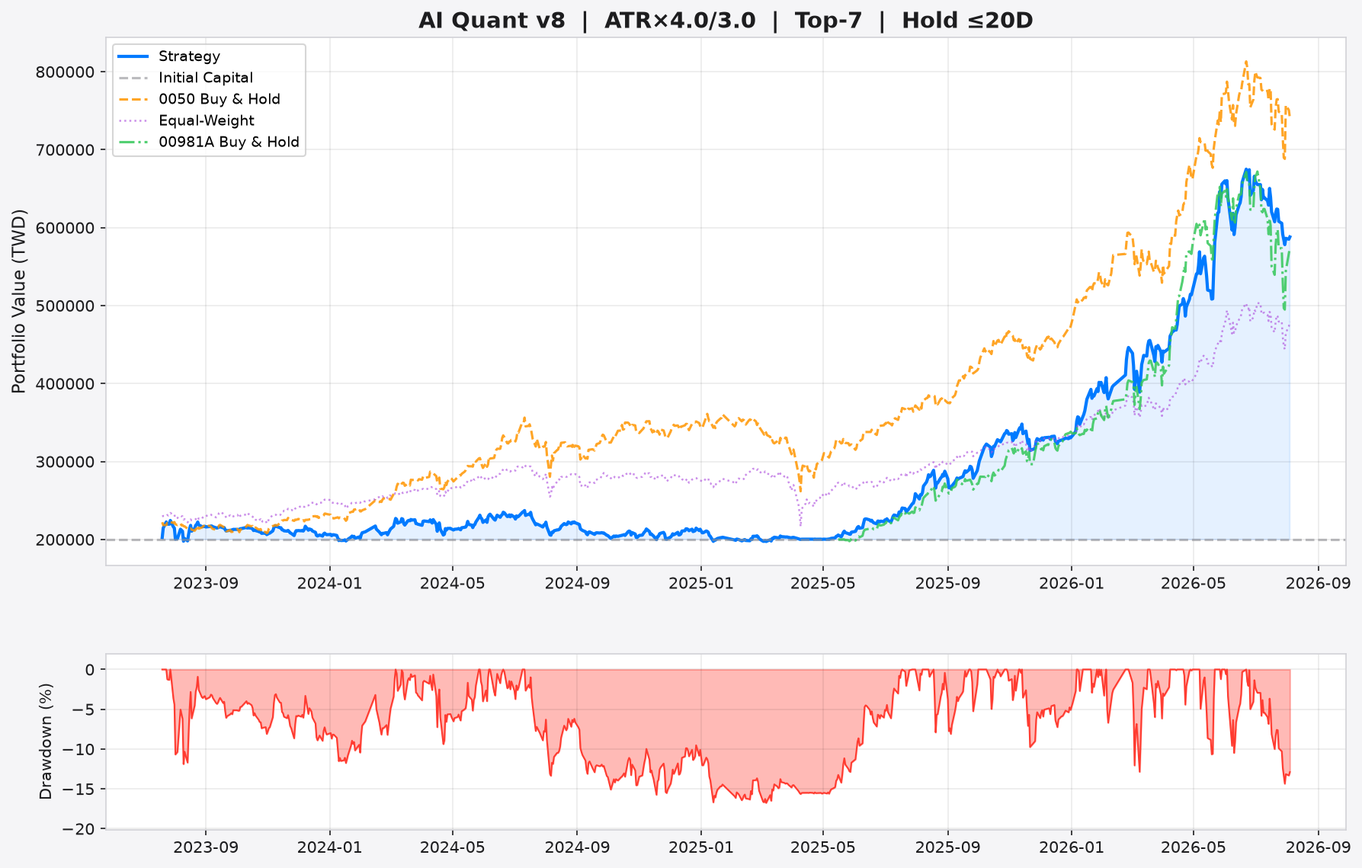
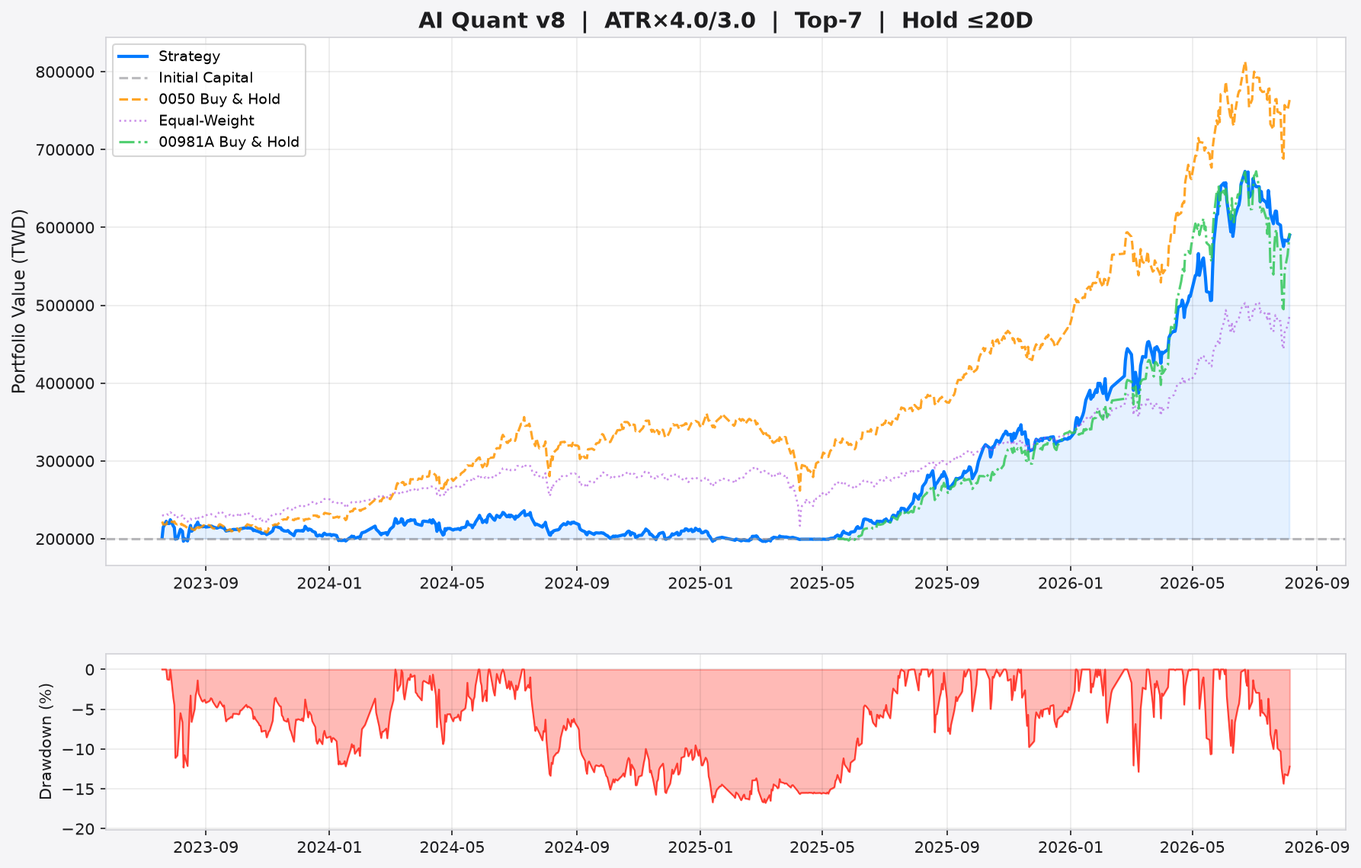
📊 AI Report v8.5 + Paper Trading (2026-08-05)

diff --git a/stock_report.html b/stock_report.html
@@ -3,7 +3,7 @@
 <head>
     <meta charset="utf-8">
     <meta name="viewport" content="width=device-width, initial-scale=1.0">
-    <title>AI 台股量化交易 v8.5 — 2026-08-04</title>
+    <title>AI 台股量化交易 v8.5 — 2026-08-05</title>
     <meta name="description" content="AI 驅動的台股量化交易系統 v8.5，完整風險報告、Benchmark 對比、OCO 智慧掛單建議">
     <script>
         (function() {
@@ -292,7 +292,7 @@
 
     <h1>🎯 AI 台股量化交易 v8.5</h1>
     <p class="subtitle">
-        Event-Driven System &nbsp;|&nbsp; 報表日期: 2026-08-04 &nbsp;|&nbsp;
+        Event-Driven System &nbsp;|&nbsp; 報表日期: 2026-08-05 &nbsp;|&nbsp;
         <span class="config-badge">🛡 ATR×4.0/3.0</span>
         <span class="config-badge">🎯 Top-7</span>
         <span class="config-badge">⏱ 最長 20 天</span>
@@ -303,11 +303,11 @@
     <div class="stats">
         <div class="stat-card">
             <div class="label">策略總報酬率</div>
-            <div class="value" style="color:#00ff00;">+194.0%</div>
+            <div class="value" style="color:#00ff00;">+195.0%</div>
         </div>
         <div class="stat-card">
             <div class="label">年化報酬率</div>
-            <div class="value" style="color:#00ff00;">+44.5%</div>
+            <div class="value" style="color:#00ff00;">+44.6%</div>
         </div>
         <div class="stat-card">
             <div class="label">年化波動率</div>
@@ -319,7 +319,7 @@
         </div>
         <div class="stat-card risk">
             <div class="label">Sortino Ratio</div>
-            <div class="value">2.22</div>
+            <div class="value">2.21</div>
         </div>
         <div class="stat-card risk">
             <div class="label">最大回撤</div>
@@ -331,7 +331,7 @@
         </div>
         <div class="stat-card">
             <div class="label">完成交易數</div>
-            <div class="value">565</div>
+            <div class="value">567</div>
         </div>
         <div class="stat-card">
             <div class="label">勝率</div>
@@ -343,7 +343,7 @@
         </div>
         <div class="stat-card">
             <div class="label">平均報酬/筆</div>
-            <div class="value">+2.50%</div>
+            <div class="value">+2.51%</div>
         </div>
         <div class="stat-card">
             <div class="label">平均持有天數</div>
@@ -370,23 +370,23 @@
             </tr>
         </thead>
         <tbody>
-<tr><td>3231</td><td>4.00</td><td>195.0</td><td><span style="color:#00ff00; font-weight:bold;">🟢 建議買進 #1</span></td><td><b>停利:</b> <span style="color:#00ff00">234.0</span> (+20.0%) <br><b>停損:</b> <span style="color:#ff4444">165.8</span> (-15.0%) <br><b>最晚出場:</b> 2026-09-01</td><td><span style="font-size:0.72rem; color:#888;">歷史 <b>10</b>筆 | 勝率 <b style="color:#ff4444">30%</b> | 均報酬 <b style="color:#ff4444">-1.6%</b></span></td><td><span style="font-size:0.78rem;">🟢 大買<br><span style="color:#00ff00; font-weight:bold;">+7.0%</span></span></td><td><span style="font-size:0.78rem;">⚪ 中性</span></td></tr>
-<tr><td>6669</td><td>3.93</td><td>6205.0</td><td><span style="color:#00ff00; font-weight:bold;">🟢 建議買進 #2</span></td><td><b>停利:</b> <span style="color:#00ff00">7591.0</span> (+22.3%) <br><b>停損:</b> <span style="color:#ff4444">5165.5</span> (-16.8%) <br><b>最晚出場:</b> 2026-09-01</td><td><span style="font-size:0.72rem; color:#888;">歷史 <b>11</b>筆 | 勝率 <b style="color:#ff4444">36%</b> | 均報酬 <b style="color:#ff4444">-2.0%</b></span></td><td><span style="font-size:0.78rem;">🟡 小買<br><span style="color:#ffab00; font-weight:bold;">+1.6%</span></span></td><td><span style="font-size:0.78rem;">⚪ 中性</span></td></tr>
-<tr><td>2395</td><td>3.75</td><td>576.0</td><td><span style="color:#00ff00; font-weight:bold;">🟢 建議買進 #3</span></td><td><b>停利:</b> <span style="color:#00ff00">704.9</span> (+22.4%) <br><b>停損:</b> <span style="color:#ff4444">479.3</span> (-16.8%) <br><b>最晚出場:</b> 2026-09-01</td><td><span style="font-size:0.72rem; color:#555;">歷史資料不足</span></td><td><span style="font-size:0.78rem;">⚪ 無資料<br><span style="color:#888; font-weight:bold;">+0.0%</span></span></td><td><span style="font-size:0.78rem;">⚪ 中性</span></td></tr>
-<tr><td>2301</td><td>3.72</td><td>252.0</td><td><span style="color:#00ff00; font-weight:bold;">🟢 建議買進 #4</span></td><td><b>停利:</b> <span style="color:#00ff00">312.4</span> (+24.0%) <br><b>停損:</b> <span style="color:#ff4444">206.7</span> (-18.0%) <br><b>最晚出場:</b> 2026-09-01</td><td><span style="font-size:0.72rem; color:#888;">歷史 <b>2</b>筆 | 勝率 <b style="color:#00ff00">100%</b> | 均報酬 <b style="color:#00ff00">+16.0%</b></span></td><td><span style="font-size:0.78rem;">⚪ 無資料<br><span style="color:#888; font-weight:bold;">+0.0%</span></span></td><td><span style="font-size:0.78rem;">⚪ 中性</span></td></tr>
-<tr><td>2357</td><td>3.68</td><td>806.0</td><td><span style="color:#00ff00; font-weight:bold;">🟢 建議買進 #5</span></td><td><b>停利:</b> <span style="color:#00ff00">924.2</span> (+14.7%) <br><b>停損:</b> <span style="color:#ff4444">717.4</span> (-11.0%) <br><b>最晚出場:</b> 2026-09-01</td><td><span style="font-size:0.72rem; color:#888;">歷史 <b>4</b>筆 | 勝率 <b style="color:#00ff00">75%</b> | 均報酬 <b style="color:#00ff00">+1.7%</b></span></td><td><span style="font-size:0.78rem;">🟢 大買<br><span style="color:#00ff00; font-weight:bold;">+3.9%</span></span></td><td><span style="font-size:0.78rem;">⚪ 中性</span></td></tr>
-<tr><td>6505</td><td>3.63</td><td>68.2</td><td><span style="color:#00ff00; font-weight:bold;">🟢 建議買進 #6</span></td><td><b>停利:</b> <span style="color:#00ff00">92.3</span> (+35.3%) <br><b>停損:</b> <span style="color:#ff4444">50.2</span> (-26.5%) <br><b>最晚出場:</b> 2026-09-01</td><td><span style="font-size:0.72rem; color:#888;">歷史 <b>4</b>筆 | 勝率 <b style="color:#ff4444">25%</b> | 均報酬 <b style="color:#ff4444">-8.6%</b></span></td><td><span style="font-size:0.78rem;">⚪ 無資料<br><span style="color:#888; font-weight:bold;">+0.0%</span></span></td><td><span style="font-size:0.78rem;">⚪ 中性</span></td></tr>
-<tr><td>2884</td><td>3.53</td><td>38.0</td><td><span style="color:#00ff00; font-weight:bold;">🟢 建議買進 #7</span></td><td><b>停利:</b> <span style="color:#00ff00">41.5</span> (+9.1%) <br><b>停損:</b> <span style="color:#ff4444">35.4</span> (-6.8%) <br><b>最晚出場:</b> 2026-09-01</td><td><span style="font-size:0.72rem; color:#888;">歷史 <b>4</b>筆 | 勝率 <b style="color:#00ff00">75%</b> | 均報酬 <b style="color:#00ff00">+0.4%</b></span></td><td><span style="font-size:0.78rem;">🟡 小買<br><span style="color:#ffab00; font-weight:bold;">+1.6%</span></span></td><td><span style="font-size:0.78rem;">⚪ 中性</span></td></tr>
-<tr style="opacity:0.6"><td>2618</td><td>3.32</td><td>43.8</td><td><span style="color:#ffab00">🟡 候選 (超出 Top-K)</span></td><td>-</td><td><span style="font-size:0.72rem; color:#888;">勝率 <b style="color:#ff4444">33%</b></span></td><td><span style="font-size:0.72rem;">🟢 大買<br><span style="color:#00ff00">+7.7%</span></span></td><td><span style="font-size:0.72rem;">⚪</span></td></tr>
-<tr style="opacity:0.6"><td>2377</td><td>3.28</td><td>149.5</td><td><span style="color:#ffab00">🟡 候選 (超出 Top-K)</span></td><td>-</td><td><span style="font-size:0.72rem; color:#888;">勝率 <b style="color:#00ff00">50%</b></span></td><td><span style="font-size:0.72rem;">🟢 大買<br><span style="color:#00ff00">+3.8%</span></span></td><td><span style="font-size:0.72rem;">⚪</span></td></tr>
-<tr style="opacity:0.6"><td>2886</td><td>3.25</td><td>50.7</td><td><span style="color:#ffab00">🟡 候選 (超出 Top-K)</span></td><td>-</td><td><span style="font-size:0.72rem; color:#888;">勝率 <b style="color:#00ff00">50%</b></span></td><td><span style="font-size:0.72rem;">⚪ 無資料<br><span style="color:#888">+0.0%</span></span></td><td><span style="font-size:0.72rem;">⚪</span></td></tr>
-<tr style="opacity:0.6"><td>2603</td><td>3.20</td><td>206.0</td><td><span style="color:#ffab00">🟡 候選 (超出 Top-K)</span></td><td>-</td><td><span style="font-size:0.72rem; color:#888;">勝率 <b style="color:#ff4444">30%</b></span></td><td><span style="font-size:0.72rem;">🟢 大買<br><span style="color:#00ff00">+2.2%</span></span></td><td><span style="font-size:0.72rem;">⚪</span></td></tr>
-<tr style="opacity:0.6"><td>2887</td><td>3.18</td><td>35.5</td><td><span style="color:#ffab00">🟡 候選 (超出 Top-K)</span></td><td>-</td><td><span style="font-size:0.72rem; color:#555;">-</span></td><td><span style="font-size:0.72rem;">⚪ 無資料<br><span style="color:#888">+0.0%</span></span></td><td><span style="font-size:0.72rem;">⚪</span></td></tr>
-<tr style="opacity:0.4"><td>2317</td><td>2.62</td><td>250.0</td><td><span style="color:#aaaaaa">⚪ 觀望 (低於 MA)</span></td><td>-</td><td>-</td><td style="color:#555">-</td><td style="color:#555">-</td></tr>
-<tr style="opacity:0.4"><td>6285</td><td>2.17</td><td>252.5</td><td><span style="color:#aaaaaa">⚪ 觀望 (低於 MA)</span></td><td>-</td><td>-</td><td style="color:#555">-</td><td style="color:#555">-</td></tr>
-<tr style="opacity:0.4"><td>3533</td><td>2.17</td><td>2010.0</td><td><span style="color:#aaaaaa">⚪ 觀望 (低於 MA)</span></td><td>-</td><td>-</td><td style="color:#555">-</td><td style="color:#555">-</td></tr>
-<tr style="opacity:0.4"><td>2412</td><td>1.93</td><td>136.5</td><td><span style="color:#aaaaaa">⚪ 觀望 (評分不足)</span></td><td>-</td><td>-</td><td style="color:#555">-</td><td style="color:#555">-</td></tr>
-<tr style="opacity:0.4"><td>1216</td><td>1.85</td><td>73.9</td><td><span style="color:#aaaaaa">⚪ 觀望 (評分不足)</span></td><td>-</td><td>-</td><td style="color:#555">-</td><td style="color:#555">-</td></tr>
+<tr><td>3231</td><td>3.97</td><td>193.0</td><td><span style="color:#00ff00; font-weight:bold;">🟢 建議買進 #1</span></td><td><b>停利:</b> <span style="color:#00ff00">233.1</span> (+20.8%) <br><b>停損:</b> <span style="color:#ff4444">162.9</span> (-15.6%) <br><b>最晚出場:</b> 2026-09-02</td><td><span style="font-size:0.72rem; color:#888;">歷史 <b>11</b>筆 | 勝率 <b style="color:#ff4444">36%</b> | 均報酬 <b style="color:#00ff00">+0.1%</b></span></td><td><span style="font-size:0.78rem;">🟢 大買<br><span style="color:#00ff00; font-weight:bold;">+7.0%</span></span></td><td><span style="font-size:0.78rem;">⚪ 中性</span></td></tr>
+<tr><td>6669</td><td>3.88</td><td>6175.0</td><td><span style="color:#00ff00; font-weight:bold;">🟢 建議買進 #2</span></td><td><b>停利:</b> <span style="color:#00ff00">7578.0</span> (+22.7%) <br><b>停損:</b> <span style="color:#ff4444">5122.8</span> (-17.0%) <br><b>最晚出場:</b> 2026-09-02</td><td><span style="font-size:0.72rem; color:#888;">歷史 <b>11</b>筆 | 勝率 <b style="color:#ff4444">36%</b> | 均報酬 <b style="color:#ff4444">-2.0%</b></span></td><td><span style="font-size:0.78rem;">🟡 小買<br><span style="color:#ffab00; font-weight:bold;">+1.6%</span></span></td><td><span style="font-size:0.78rem;">⚪ 中性</span></td></tr>
+<tr><td>2395</td><td>3.83</td><td>633.0</td><td><span style="color:#00ff00; font-weight:bold;">🟢 建議買進 #3</span></td><td><b>停利:</b> <span style="color:#00ff00">763.7</span> (+20.6%) <br><b>停損:</b> <span style="color:#ff4444">535.0</span> (-15.5%) <br><b>最晚出場:</b> 2026-09-02</td><td><span style="font-size:0.72rem; color:#555;">歷史資料不足</span></td><td><span style="font-size:0.78rem;">⚪ 無資料<br><span style="color:#888; font-weight:bold;">+0.0%</span></span></td><td><span style="font-size:0.78rem;">⚪ 中性</span></td></tr>
+<tr><td>2357</td><td>3.78</td><td>838.0</td><td><span style="color:#00ff00; font-weight:bold;">🟢 建議買進 #4</span></td><td><b>停利:</b> <span style="color:#00ff00">962.0</span> (+14.8%) <br><b>停損:</b> <span style="color:#ff4444">745.0</span> (-11.1%) <br><b>最晚出場:</b> 2026-09-02</td><td><span style="font-size:0.72rem; color:#888;">歷史 <b>4</b>筆 | 勝率 <b style="color:#00ff00">75%</b> | 均報酬 <b style="color:#00ff00">+1.7%</b></span></td><td><span style="font-size:0.78rem;">🟢 大買<br><span style="color:#00ff00; font-weight:bold;">+3.9%</span></span></td><td><span style="font-size:0.78rem;">⚪ 中性</span></td></tr>
+<tr><td>2301</td><td>3.60</td><td>249.0</td><td><span style="color:#00ff00; font-weight:bold;">🟢 建議買進 #5</span></td><td><b>停利:</b> <span style="color:#00ff00">312.1</span> (+25.3%) <br><b>停損:</b> <span style="color:#ff4444">201.7</span> (-19.0%) <br><b>最晚出場:</b> 2026-09-02</td><td><span style="font-size:0.72rem; color:#888;">歷史 <b>2</b>筆 | 勝率 <b style="color:#00ff00">100%</b> | 均報酬 <b style="color:#00ff00">+16.0%</b></span></td><td><span style="font-size:0.78rem;">⚪ 無資料<br><span style="color:#888; font-weight:bold;">+0.0%</span></span></td><td><span style="font-size:0.78rem;">⚪ 中性</span></td></tr>
+<tr><td>3017</td><td>3.50</td><td>2730.0</td><td><span style="color:#00ff00; font-weight:bold;">🟢 建議買進 #6</span></td><td><b>停利:</b> <span style="color:#00ff00">3390.0</span> (+24.2%) <br><b>停損:</b> <span style="color:#ff4444">2235.0</span> (-18.1%) <br><b>最晚出場:</b> 2026-09-02</td><td><span style="font-size:0.72rem; color:#888;">歷史 <b>16</b>筆 | 勝率 <b style="color:#00ff00">81%</b> | 均報酬 <b style="color:#00ff00">+7.6%</b></span></td><td><span style="font-size:0.78rem;">⚪ 無資料<br><span style="color:#888; font-weight:bold;">+0.0%</span></span></td><td><span style="font-size:0.78rem;">⚪ 中性</span></td></tr>
+<tr><td>2408</td><td>3.43</td><td>445.0</td><td><span style="color:#00ff00; font-weight:bold;">🟢 建議買進 #7</span></td><td><b>停利:</b> <span style="color:#00ff00">595.0</span> (+33.7%) <br><b>停損:</b> <span style="color:#ff4444">332.5</span> (-25.3%) <br><b>最晚出場:</b> 2026-09-02</td><td><span style="font-size:0.72rem; color:#888;">歷史 <b>17</b>筆 | 勝率 <b style="color:#00ff00">65%</b> | 均報酬 <b style="color:#00ff00">+6.9%</b></span></td><td><span style="font-size:0.78rem;">🟠 小賣<br><span style="color:#ffab00; font-weight:bold;">-1.6%</span></span></td><td><span style="font-size:0.78rem;">⚪ 中性</span></td></tr>
+<tr style="opacity:0.6"><td>6505</td><td>3.40</td><td>67.6</td><td><span style="color:#ffab00">🟡 候選 (超出 Top-K)</span></td><td>-</td><td><span style="font-size:0.72rem; color:#888;">勝率 <b style="color:#ff4444">25%</b></span></td><td><span style="font-size:0.72rem;">⚪ 無資料<br><span style="color:#888">+0.0%</span></span></td><td><span style="font-size:0.72rem;">⚪</span></td></tr>
+<tr style="opacity:0.6"><td>2618</td><td>3.27</td><td>43.8</td><td><span style="color:#ffab00">🟡 候選 (超出 Top-K)</span></td><td>-</td><td><span style="font-size:0.72rem; color:#888;">勝率 <b style="color:#ff4444">33%</b></span></td><td><span style="font-size:0.72rem;">🟢 大買<br><span style="color:#00ff00">+7.7%</span></span></td><td><span style="font-size:0.72rem;">⚪</span></td></tr>
+<tr style="opacity:0.6"><td>5274O</td><td>3.27</td><td>16020.0</td><td><span style="color:#ffab00">🟡 候選 (超出 Top-K)</span></td><td>-</td><td><span style="font-size:0.72rem; color:#888;">勝率 <b style="color:#00ff00">67%</b></span></td><td><span style="font-size:0.72rem;">⚪ 無資料<br><span style="color:#888">+0.0%</span></span></td><td><span style="font-size:0.72rem;">⚪</span></td></tr>
+<tr style="opacity:0.6"><td>2884</td><td>3.25</td><td>38.1</td><td><span style="color:#ffab00">🟡 候選 (超出 Top-K)</span></td><td>-</td><td><span style="font-size:0.72rem; color:#888;">勝率 <b style="color:#00ff00">75%</b></span></td><td><span style="font-size:0.72rem;">🟡 小買<br><span style="color:#888">+1.6%</span></span></td><td><span style="font-size:0.72rem;">⚪</span></td></tr>
+<tr style="opacity:0.6"><td>2886</td><td>3.22</td><td>51.2</td><td><span style="color:#ffab00">🟡 候選 (超出 Top-K)</span></td><td>-</td><td><span style="font-size:0.72rem; color:#888;">勝率 <b style="color:#00ff00">50%</b></span></td><td><span style="font-size:0.72rem;">⚪ 無資料<br><span style="color:#888">+0.0%</span></span></td><td><span style="font-size:0.72rem;">⚪</span></td></tr>
+<tr style="opacity:0.4"><td>3036</td><td>2.57</td><td>225.0</td><td><span style="color:#aaaaaa">⚪ 觀望 (低於 MA)</span></td><td>-</td><td>-</td><td style="color:#555">-</td><td style="color:#555">-</td></tr>
+<tr style="opacity:0.4"><td>6285</td><td>2.22</td><td>260.0</td><td><span style="color:#aaaaaa">⚪ 觀望 (低於 MA)</span></td><td>-</td><td>-</td><td style="color:#555">-</td><td style="color:#555">-</td></tr>
+<tr style="opacity:0.4"><td>3045</td><td>1.98</td><td>110.5</td><td><span style="color:#aaaaaa">⚪ 觀望 (評分不足)</span></td><td>-</td><td>-</td><td style="color:#555">-</td><td style="color:#555">-</td></tr>
+<tr style="opacity:0.4"><td>2890</td><td>1.98</td><td>39.5</td><td><span style="color:#aaaaaa">⚪ 觀望 (評分不足)</span></td><td>-</td><td>-</td><td style="color:#555">-</td><td style="color:#555">-</td></tr>
+<tr style="opacity:0.4"><td>2412</td><td>1.97</td><td>137.0</td><td><span style="color:#aaaaaa">⚪ 觀望 (評分不足)</span></td><td>-</td><td>-</td><td style="color:#555">-</td><td style="color:#555">-</td></tr>
 
         </tbody>
     </table>
@@ -461,7 +461,7 @@
     <div class="stats">
         <div class="stat-card benchmark">
             <div class="label">0050 年化報酬</div>
-            <div class="value">+51.1%</div>
+            <div class="value">+52.6%</div>
         </div>
         <div class="stat-card benchmark">
             <div class="label">0050 最大回撤</div>
@@ -469,18 +469,18 @@
         </div>
         <div class="stat-card benchmark">
             <div class="label">0050 Sharpe</div>
-            <div class="value">1.78</div>
+            <div class="value">1.82</div>
         </div>
         <div class="stat-card" style="border-left-color:#ff4444">
             <div class="label">超額年化報酬 (α)</div>
-            <div class="value" style="color:#ff4444">-6.6%</div>
+            <div class="value" style="color:#ff4444">-8.0%</div>
         </div>
     </div>
 
     <div class="stats">
         <div class="stat-card benchmark">
             <div class="label">00981A 年化報酬</div>
-            <div class="value">+144.1%</div>
+            <div class="value">+149.9%</div>
         </div>
         <div class="stat-card benchmark">
             <div class="label">00981A 最大回撤</div>
@@ -488,11 +488,11 @@
         </div>
         <div class="stat-card benchmark">
             <div class="label">00981A Sharpe</div>
-            <div class="value">2.64</div>
+            <div class="value">2.71</div>
         </div>
         <div class="stat-card" style="border-left-color:#ff4444">
             <div class="label">超額 vs 00981A (共存期)</div>
-            <div class="value" style="color:#ff4444">-1.4%</div>
+            <div class="value" style="color:#ff4444">-8.3%</div>
         </div>
     </div>
     <img src="backtest_chart.png" alt="AI Quantitative Backtest Equity Curve with Benchmark">
@@ -501,25 +501,25 @@
     <p class="section-note">判斷目前市場 regime 與近期趨勢，幫助你決定是否積極或保守操作。</p>
 
     <div class="stats">
-        <div class="stat-card" style="border-left-color:#ff4444">
+        <div class="stat-card" style="border-left-color:#00ff00">
             <div class="label">大盤 Regime</div>
-            <div class="value" style="color:#ff4444">🔴 空頭</div>
+            <div class="value" style="color:#00ff00">🟢 多頭</div>
         </div>
         <div class="stat-card benchmark">
             <div class="label">0050 近 5 日</div>
-            <div class="value" style="color:#00ff00">+7.4%</div>
+            <div class="value" style="color:#00ff00">+10.8%</div>
         </div>
         <div class="stat-card benchmark">
             <div class="label">0050 近 20 日</div>
-            <div class="value" style="color:#ff4444">-4.5%</div>
+            <div class="value" style="color:#ff4444">-1.5%</div>
         </div>
         <div class="stat-card benchmark">
             <div class="label">0050 近 60 日</div>
-            <div class="value" style="color:#00ff00">+4.6%</div>
+            <div class="value" style="color:#00ff00">+7.8%</div>
         </div>
         <div class="stat-card risk">
             <div class="label">市場波動率 (20D)</div>
-            <div class="value">50.9%</div>
+            <div class="value">51.2%</div>
         </div>
     </div>
 
@@ -529,11 +529,11 @@
     <div class="stats">
         <div class="stat-card risk">
             <div class="label">目前回撤</div>
-            <div class="value" style="color:#ff4444">-12.9%</div>
+            <div class="value" style="color:#ff4444">-12.2%</div>
         </div>
         <div class="stat-card">
             <div class="label">權益最高點</div>
-            <div class="value">674,960</div>
+            <div class="value">671,881</div>
         </div>
         <div class="stat-card">
             <div class="label">歷史回撤次數</div>
@@ -544,9 +544,9 @@
         <thead><tr><th>#</th><th>開始日</th><th>恢復日</th><th>最大深度</th><th>持續天數</th></tr></thead>
         <tbody>
 <tr><td>#1</td><td>2024-07-12</td><td>2025-07-17</td><td style="color:#ff4444; font-weight:bold">-16.8%</td><td>370 天</td></tr>
-<tr><td>#2</td><td>2026-06-26</td><td>2026-08-04</td><td style="color:#ff4444; font-weight:bold">-14.3%</td><td>39 天</td></tr>
+<tr><td>#2</td><td>2026-06-26</td><td>2026-08-05</td><td style="color:#ff4444; font-weight:bold">-14.3%</td><td>40 天</td></tr>
 <tr><td>#3</td><td>2026-03-02</td><td>2026-03-17</td><td style="color:#ff4444; font-weight:bold">-12.9%</td><td>15 天</td></tr>
-<tr><td>#4</td><td>2023-07-31</td><td>2024-03-06</td><td style="color:#ff4444; font-weight:bold">-11.9%</td><td>219 天</td></tr>
+<tr><td>#4</td><td>2023-07-31</td><td>2024-03-06</td><td style="color:#ff4444; font-weight:bold">-12.3%</td><td>219 天</td></tr>
 <tr><td>#5</td><td>2026-05-08</td><td>2026-05-22</td><td style="color:#ff4444; font-weight:bold">-10.7%</td><td>14 天</td></tr>
 
         </tbody>
@@ -558,7 +558,7 @@
     <div class="stats">
         <div class="stat-card" style="border-left-color:#ff4444">
             <div class="label">近 60 日 Sharpe</div>
-            <div class="value" style="color:#ff4444">0.68</div>
+            <div class="value" style="color:#ff4444">0.72</div>
         </div>
         <div class="stat-card">
             <div class="label">歷史平均 Sharpe</div>
@@ -588,7 +588,7 @@
         </div>
         <div class="stat-card">
             <div class="label">近 5 筆走勢</div>
-            <div class="value" style="font-size:1.2rem">🔴 🔴 🔴 🔴 🔴 </div>
+            <div class="value" style="font-size:1.2rem">🔴 🔴 🔴 🔴 🟢 </div>
         </div>
     </div>
 
@@ -596,8 +596,8 @@
     <table>
         <thead><tr><th>出場原因</th><th>次數</th><th>平均報酬</th></tr></thead>
         <tbody>
-<tr><td>🟢 停利</td><td>215 筆</td><td style="color:#00ff00">+16.35%</td></tr>
-<tr><td>⚪ 時間到期</td><td>202 筆</td><td style="color:#ff4444">-0.96%</td></tr>
+<tr><td>🟢 停利</td><td>216 筆</td><td style="color:#00ff00">+16.33%</td></tr>
+<tr><td>⚪ 時間到期</td><td>203 筆</td><td style="color:#ff4444">-0.96%</td></tr>
 <tr><td>🔴 停損</td><td>148 筆</td><td style="color:#ff4444">-12.91%</td></tr>
 
         </tbody>
@@ -608,14 +608,14 @@
 
     <table>
         <thead><tr><th>報酬區間</th><th>筆數</th><th>佔比</th><th>分布</th></tr></thead>
-        <tbody><tr><td>< -15%</td><td>38</td><td>6.7%</td><td><div style="background:#ff4444; width:20.176991150442475%; height:14px; border-radius:3px; opacity:0.6"></div></td></tr>
-<tr><td>-15~-10%</td><td>87</td><td>15.4%</td><td><div style="background:#ff4444; width:46.19469026548673%; height:14px; border-radius:3px; opacity:0.6"></div></td></tr>
-<tr><td>-10~-5%</td><td>78</td><td>13.8%</td><td><div style="background:#ff4444; width:41.415929203539825%; height:14px; border-radius:3px; opacity:0.6"></div></td></tr>
-<tr><td>-5~0%</td><td>65</td><td>11.5%</td><td><div style="background:#ff4444; width:34.51327433628318%; height:14px; border-radius:3px; opacity:0.6"></div></td></tr>
-<tr><td>0~5%</td><td>52</td><td>9.2%</td><td><div style="background:#00ff00; width:27.61061946902655%; height:14px; border-radius:3px; opacity:0.6"></div></td></tr>
-<tr><td>5~10%</td><td>38</td><td>6.7%</td><td><div style="background:#00ff00; width:20.176991150442475%; height:14px; border-radius:3px; opacity:0.6"></div></td></tr>
-<tr><td>10~20%</td><td>156</td><td>27.6%</td><td><div style="background:#00ff00; width:82.83185840707965%; height:14px; border-radius:3px; opacity:0.6"></div></td></tr>
-<tr><td>> 20%</td><td>51</td><td>9.0%</td><td><div style="background:#00ff00; width:27.07964601769912%; height:14px; border-radius:3px; opacity:0.6"></div></td></tr>
+        <tbody><tr><td>< -15%</td><td>38</td><td>6.7%</td><td><div style="background:#ff4444; width:20.105820105820108%; height:14px; border-radius:3px; opacity:0.6"></div></td></tr>
+<tr><td>-15~-10%</td><td>87</td><td>15.3%</td><td><div style="background:#ff4444; width:46.03174603174603%; height:14px; border-radius:3px; opacity:0.6"></div></td></tr>
+<tr><td>-10~-5%</td><td>78</td><td>13.8%</td><td><div style="background:#ff4444; width:41.269841269841265%; height:14px; border-radius:3px; opacity:0.6"></div></td></tr>
+<tr><td>-5~0%</td><td>66</td><td>11.6%</td><td><div style="background:#ff4444; width:34.92063492063492%; height:14px; border-radius:3px; opacity:0.6"></div></td></tr>
+<tr><td>0~5%</td><td>52</td><td>9.2%</td><td><div style="background:#00ff00; width:27.51322751322751%; height:14px; border-radius:3px; opacity:0.6"></div></td></tr>
+<tr><td>5~10%</td><td>38</td><td>6.7%</td><td><div style="background:#00ff00; width:20.105820105820108%; height:14px; border-radius:3px; opacity:0.6"></div></td></tr>
+<tr><td>10~20%</td><td>158</td><td>27.9%</td><td><div style="background:#00ff00; width:83.5978835978836%; height:14px; border-radius:3px; opacity:0.6"></div></td></tr>
+<tr><td>> 20%</td><td>50</td><td>8.8%</td><td><div style="background:#00ff00; width:26.455026455026452%; height:14px; border-radius:3px; opacity:0.6"></div></td></tr>
 </tbody>
     </table>
 
@@ -634,7 +634,7 @@
 <tr><td><b>1303</b></td><td>11</td><td style="color:#00ff00">73%</td><td style="color:#00ff00">+8.2%</td><td style="color:#00ff00; font-weight:bold">+89.9%</td></tr>
 <tr><td><b>2327</b></td><td>10</td><td style="color:#00ff00">70%</td><td style="color:#00ff00">+8.5%</td><td style="color:#00ff00; font-weight:bold">+84.9%</td></tr>
 <tr><td><b>5274O</b></td><td>15</td><td style="color:#00ff00">67%</td><td style="color:#00ff00">+5.0%</td><td style="color:#00ff00; font-weight:bold">+75.3%</td></tr>
-<tr><td><b>1519</b></td><td>20</td><td style="color:#00ff00">50%</td><td style="color:#00ff00">+3.6%</td><td style="color:#00ff00; font-weight:bold">+71.4%</td></tr>
+<tr><td><b>3036</b></td><td>11</td><td style="color:#00ff00">64%</td><td style="color:#00ff00">+6.2%</td><td style="color:#00ff00; font-weight:bold">+68.2%</td></tr>
 </tbody>
     </table>
     <h3 style="color:#ff4444; margin-top:16px">📉 Bottom 5 虧損股</h3>
@@ -658,6 +658,8 @@
             </tr>
         </thead>
         <tbody>
+<tr><td>3231</td><td>2026-07-30</td><td>2026-08-05</td><td>170.2</td><td>199.8</td><td>🟢 停利</td><td>4天</td><td style="color:#00ff00; font-weight:bold;">+16.6%</td></tr>
+<tr><td>2890</td><td>2026-07-08</td><td>2026-08-05</td><td>39.9</td><td>39.5</td><td>⚪ 時間到期</td><td>20天</td><td style="color:#ff4444; font-weight:bold;">-1.5%</td></tr>
 <tr><td>6505</td><td>2026-07-27</td><td>2026-08-04</td><td>81.8</td><td>65.6</td><td>🔴 停損</td><td>6天</td><td style="color:#ff4444; font-weight:bold;">-20.3%</td></tr>
 <tr><td>1326</td><td>2026-07-07</td><td>2026-08-04</td><td>66.9</td><td>58.2</td><td>⚪ 時間到期</td><td>20天</td><td style="color:#ff4444; font-weight:bold;">-13.6%</td></tr>
 <tr><td>3231</td><td>2026-07-27</td><td>2026-07-30</td><td>180.2</td><td>161.6</td><td>🔴 停損</td><td>3天</td><td style="color:#ff4444; font-weight:bold;">-10.9%</td></tr>
@@ -676,8 +678,6 @@
 <tr><td>2356</td><td>2026-06-09</td><td>2026-07-08</td><td>67.2</td><td>64.1</td><td>⚪ 時間到期</td><td>20天</td><td style="color:#ff4444; font-weight:bold;">-5.2%</td></tr>
 <tr><td>6116</td><td>2026-06-08</td><td>2026-07-07</td><td>16.7</td><td>17.1</td><td>⚪ 時間到期</td><td>20天</td><td style="color:#00ff00; font-weight:bold;">+2.2%</td></tr>
 <tr><td>2408</td><td>2026-06-23</td><td>2026-07-02</td><td>486.9</td><td>385.3</td><td>🔴 停損</td><td>7天</td><td style="color:#ff4444; font-weight:bold;">-21.4%</td></tr>
-<tr><td>1303</td><td>2026-06-23</td><td>2026-07-02</td><td>156.4</td><td>190.8</td><td>🟢 停利</td><td>7天</td><td style="color:#00ff00; font-weight:bold;">+21.2%</td></tr>
-<tr><td>6239</td><td>2026-05-27</td><td>2026-06-25</td><td>336.7</td><td>319.7</td><td>⚪ 時間到期</td><td>20天</td><td style="color:#ff4444; font-weight:bold;">-5.7%</td></tr>
 
         </tbody>
     </table>
@@ -687,7 +687,7 @@
     <table style="max-width:400px">
         <thead><tr><th>月份</th><th>月報酬</th></tr></thead>
         <tbody>
-<tr style="background:rgba(0,255,0,0.01)"><td>2023-08</td><td style="color:#00ff00; font-weight:bold">+0.3%</td></tr>
+<tr style="background:rgba(255,68,68,0.01)"><td>2023-08</td><td style="color:#ff4444; font-weight:bold">-0.2%</td></tr>
 <tr style="background:rgba(255,68,68,0.06)"><td>2023-09</td><td style="color:#ff4444; font-weight:bold">-1.8%</td></tr>
 <tr style="background:rgba(255,68,68,0.09)"><td>2023-10</td><td style="color:#ff4444; font-weight:bold">-3.1%</td></tr>
 <tr style="background:rgba(0,255,0,0.07)"><td>2023-11</td><td style="color:#00ff00; font-weight:bold">+2.4%</td></tr>
@@ -723,7 +723,7 @@
 <tr style="background:rgba(0,255,0,0.30)"><td>2026-05</td><td style="color:#00ff00; font-weight:bold">+26.3%</td></tr>
 <tr style="background:rgba(0,255,0,0.05)"><td>2026-06</td><td style="color:#00ff00; font-weight:bold">+1.5%</td></tr>
 <tr style="background:rgba(255,68,68,0.30)"><td>2026-07</td><td style="color:#ff4444; font-weight:bold">-12.0%</td></tr>
-<tr style="background:rgba(0,255,0,0.01)"><td>2026-08</td><td style="color:#00ff00; font-weight:bold">+0.3%</td></tr>
+<tr style="background:rgba(0,255,0,0.03)"><td>2026-08</td><td style="color:#00ff00; font-weight:bold">+1.1%</td></tr>
 
         </tbody>
     </table>

diff --git a/paper_trading.html b/paper_trading.html
@@ -3,7 +3,7 @@
 <head>
     <meta charset="utf-8">
     <meta name="viewport" content="width=device-width, initial-scale=1.0">
-    <title>Paper Trading v8.5 — 2026-08-04</title>
+    <title>Paper Trading v8.5 — 2026-08-05</title>
     <meta name="description" content="TW Stocker v8.5 Paper Trading 實時績效追蹤">
     <script src="https://cdn.jsdelivr.net/npm/chart.js@4"></script>
     <style>
@@ -92,7 +92,7 @@
     <h1>📈 Paper Trading v8.5</h1>
     <p class="subtitle">
         <span class="badge badge-live">● LIVE</span>
-        起始日 2026-04-22 | 更新 2026-08-04 | 初始資金 200,000 | 保留本金 10%，其餘投入
+        起始日 2026-04-22 | 更新 2026-08-05 | 初始資金 200,000 | 保留本金 10%，其餘投入
     </p>
 
     <div class="metrics">
@@ -106,7 +106,7 @@
         </div>
         <div class="metric">
             <div class="label">年化報酬</div>
-            <div class="value red">-9.4%</div>
+            <div class="value red">-9.3%</div>
         </div>
         <div class="metric">
             <div class="label">最大回撤</div>
@@ -369,10 +369,10 @@ const ctx = document.getElementById('equityChart').getContext('2d');
 new Chart(ctx, {
     type: 'line',
     data: {
-        labels: ["2026-04-22", "2026-04-23", "2026-04-24", "2026-04-27", "2026-04-29", "2026-04-30", "2026-05-01", "2026-05-04", "2026-05-05", "2026-05-06", "2026-05-07", "2026-05-08", "2026-05-11", "2026-05-12", "2026-05-13", "2026-05-14", "2026-05-15", "2026-05-18", "2026-05-19", "2026-05-20", "2026-05-21", "2026-05-22", "2026-05-25", "2026-05-26", "2026-05-27", "2026-05-28", "2026-05-29", "2026-06-01", "2026-06-02", "2026-06-03", "2026-06-04", "2026-06-05", "2026-06-08", "2026-06-09", "2026-06-10", "2026-06-11", "2026-06-12", "2026-06-15", "2026-06-16", "2026-06-17", "2026-06-18", "2026-06-19", "2026-06-22", "2026-06-23", "2026-06-24", "2026-06-25", "2026-06-26", "2026-06-29", "2026-06-30", "2026-07-01", "2026-07-02", "2026-07-03", "2026-07-06", "2026-07-07", "2026-07-08", "2026-07-09", "2026-07-10", "2026-07-13", "2026-07-14", "2026-07-15", "2026-07-16", "2026-07-17", "2026-07-20", "2026-07-21", "2026-07-22", "2026-07-23", "2026-07-24", "2026-07-27", "2026-07-28", "2026-07-29", "2026-07-30", "2026-07-31", "2026-08-03", "2026-08-04"],
+        labels: ["2026-04-22", "2026-04-23", "2026-04-24", "2026-04-27", "2026-04-29", "2026-04-30", "2026-05-01", "2026-05-04", "2026-05-05", "2026-05-06", "2026-05-07", "2026-05-08", "2026-05-11", "2026-05-12", "2026-05-13", "2026-05-14", "2026-05-15", "2026-05-18", "2026-05-19", "2026-05-20", "2026-05-21", "2026-05-22", "2026-05-25", "2026-05-26", "2026-05-27", "2026-05-28", "2026-05-29", "2026-06-01", "2026-06-02", "2026-06-03", "2026-06-04", "2026-06-05", "2026-06-08", "2026-06-09", "2026-06-10", "2026-06-11", "2026-06-12", "2026-06-15", "2026-06-16", "2026-06-17", "2026-06-18", "2026-06-19", "2026-06-22", "2026-06-23", "2026-06-24", "2026-06-25", "2026-06-26", "2026-06-29", "2026-06-30", "2026-07-01", "2026-07-02", "2026-07-03", "2026-07-06", "2026-07-07", "2026-07-08", "2026-07-09", "2026-07-10", "2026-07-13", "2026-07-14", "2026-07-15", "2026-07-16", "2026-07-17", "2026-07-20", "2026-07-21", "2026-07-22", "2026-07-23", "2026-07-24", "2026-07-27", "2026-07-28", "2026-07-29", "2026-07-30", "2026-07-31", "2026-08-03", "2026-08-04", "2026-08-05"],
         datasets: [{
             label: 'Paper Trading 權益',
-            data: [198952.0, 198438.0, 203189.0, 204266.0, 202703.0, 207261.0, 207261.0, 209021.0, 209122.0, 210225.0, 213939.0, 211340.0, 217936.0, 218528.0, 216129.0, 216592.0, 213700.0, 216976.0, 214891.0, 214560.0, 221605.0, 224953.0, 228551.0, 229268.0, 233947.0, 232983.0, 234110.0, 237186.0, 237898.0, 237958.0, 237613.0, 237223.0, 236533.0, 237748.0, 236788.0, 236578.0, 236863.0, 237733.0, 238003.0, 237703.0, 237493.0, 237493.0, 237645.0, 237645.0, 237645.0, 237645.0, 237645.0, 237645.0, 237645.0, 237645.0, 237645.0, 237645.0, 237645.0, 237645.0, 237645.0, 237645.0, 239822.0, 234492.0, 234312.0, 246822.0, 237846.0, 223562.0, 215192.0, 220651.0, 226371.0, 222206.0, 214222.0, 217885.0, 207788.0, 200844.0, 195950.0, 194460.0, 194460.0, 194460.0],
+            data: [198952.0, 198438.0, 203189.0, 204266.0, 202703.0, 207261.0, 207261.0, 209021.0, 209122.0, 210225.0, 213939.0, 211340.0, 217936.0, 218528.0, 216129.0, 216592.0, 213700.0, 216976.0, 214891.0, 214560.0, 221605.0, 224953.0, 228551.0, 229268.0, 233947.0, 232983.0, 234110.0, 237186.0, 237898.0, 237958.0, 237613.0, 237223.0, 236533.0, 237748.0, 236788.0, 236578.0, 236863.0, 237733.0, 238003.0, 237703.0, 237493.0, 237493.0, 237645.0, 237645.0, 237645.0, 237645.0, 237645.0, 237645.0, 237645.0, 237645.0, 237645.0, 237645.0, 237645.0, 237645.0, 237645.0, 237645.0, 239822.0, 234492.0, 234312.0, 246822.0, 237846.0, 223562.0, 215192.0, 220651.0, 226371.0, 222206.0, 214222.0, 217885.0, 207788.0, 200844.0, 195950.0, 194460.0, 194460.0, 194460.0, 194460.0],
             borderColor: '#60a5fa',
             backgroundColor: 'rgba(96, 165, 250, 0.1)',
             fill: true,
@@ -381,7 +381,7 @@ new Chart(ctx, {
             borderWidth: 2,
         }, {
             label: '初始資金',
-            data: [200000, 200000, 200000, 200000, 200000, 200000, 200000, 200000, 200000, 200000, 200000, 200000, 200000, 200000, 200000, 200000, 200000, 200000, 200000, 200000, 200000, 200000, 200000, 200000, 200000, 200000, 200000, 200000, 200000, 200000, 200000, 200000, 200000, 200000, 200000, 200000, 200000, 200000, 200000, 200000, 200000, 200000, 200000, 200000, 200000, 200000, 200000, 200000, 200000, 200000, 200000, 200000, 200000, 200000, 200000, 200000, 200000, 200000, 200000, 200000, 200000, 200000, 200000, 200000, 200000, 200000, 200000, 200000, 200000, 200000, 200000, 200000, 200000, 200000],
+            data: [200000, 200000, 200000, 200000, 200000, 200000, 200000, 200000, 200000, 200000, 200000, 200000, 200000, 200000, 200000, 200000, 200000, 200000, 200000, 200000, 200000, 200000, 200000, 200000, 200000, 200000, 200000, 200000, 200000, 200000, 200000, 200000, 200000, 200000, 200000, 200000, 200000, 200000, 200000, 200000, 200000, 200000, 200000, 200000, 200000, 200000, 200000, 200000, 200000, 200000, 200000, 200000, 200000, 200000, 200000, 200000, 200000, 200000, 200000, 200000, 200000, 200000, 200000, 200000, 200000, 200000, 200000, 200000, 200000, 200000, 200000, 200000, 200000, 200000, 200000],
             borderColor: '#475569',
             borderDash: [5, 5],
             fill: false,
